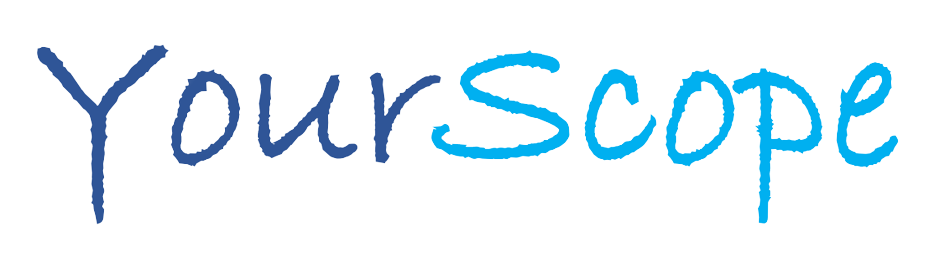
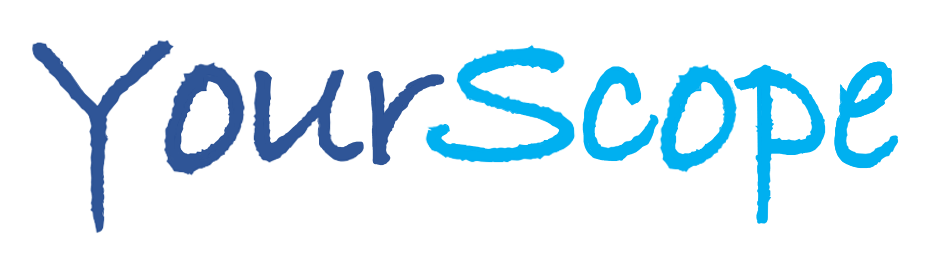
YS-187: enhanced UI of navbar

diff --git a/yourscope/src/app/shared/components/navbar/navbar.component.scss b/yourscope/src/app/shared/components/navbar/navbar.component.scss
@@ -1,7 +1,7 @@
 @import url('https://fonts.googleapis.com/css2?family=Inter:wght@100;200;300;400;500;600;700;800;900&family=Varela+Round&display=swap');
 
 .bg-navy {
-  background-color: rgb(61, 89, 149);
+  background: rgb(255, 255, 255);
 }
 
 .pad-12 {
@@ -14,6 +14,14 @@
 
 nav {
   font-family: 'Varela Round', sans-serif;
+}
+
+.logo-bg{
+  background-color: rgb(206, 229, 255);
+  border-radius: 20px;
+  padding: 0px 10px 0px 10px;
+  text-decoration: none;
+  margin-left: 20px;
 }
 
 .button-md {
@@ -43,4 +51,55 @@ nav {
   padding: 5px;
   text-align: center;
   cursor: pointer;
+}
+
+div.container
+{
+  font-family: Varela Round;
+  margin: 0 auto;
+	padding: 0.25em 3em;
+	text-align: center;
+}
+
+div.container a
+{
+    color: #243E6B;
+    font: 20px Varela Round;
+    margin: 0px 10px;
+    padding: 10px 10px;
+    
+    position: relative;
+    z-index: 0;
+    cursor: pointer;
+}
+
+/* Top and Bottom borders come in */
+div.topBotomBordersIn a:before, div.topBotomBordersIn a:after
+{
+    position: absolute;
+    left: 0px;
+    width: 100%;
+    height: 2px;
+    background: #243E6B;
+    content: "";
+    opacity: 0;
+    transition: all 0.3s;
+}
+
+div.topBotomBordersIn a:before
+{
+    top: 0px;
+    transform: translateY(-10px);
+}
+
+div.topBotomBordersIn a:after
+{
+    bottom: 0px;
+    transform: translateY(10px);
+}
+
+div.topBotomBordersIn a:hover:before, div.topBotomBordersIn a:hover:after
+{
+    opacity: 1;
+    transform: translateY(0px);
 }

diff --git a/yourscope/src/app/shared/components/navbar/navbar.component.html b/yourscope/src/app/shared/components/navbar/navbar.component.html
@@ -1,14 +1,16 @@
-<nav class="bg-navy pad-12 navbar navbar-expand-lg">
+<nav class="bg-navy pad-12 navbar navbar-expand-lg ">
   <a class="navbar-brand" href="{{home}}">
-    <img src="../../../assets/yourscope.png" width="100" height="30" alt="">
+    <img  src="../../../assets/yourscope.png" width="140" height="40" alt="">
   </a>
   <button class="navbar-toggler" type="button" data-toggle="collapse" aria-expanded="false" aria-label="Toggle navigation" (click)="collapsed = !collapsed">
     <span class="navbar-toggler-icon"></span>
   </button>
-  <div class="collapse navbar-collapse" [ngbCollapse]="collapsed">
+  <div class="collapse navbar-collapse " [ngbCollapse]="collapsed">
     <ul class="navbar-nav mr-auto">
-      <li class="nav-item button-md" *ngFor="let link of links">
-        <a class="nav-link white" href="{{link.href}}">{{link.label}}</a>
+      <li class="nav-item " *ngFor="let link of links">
+        <div class="container topBotomBordersIn">
+          <a class="nav-link white" href="{{link.href}}">{{link.label}}</a>
+        </div>
       </li>
     </ul>
     <div class="logout-button-bg">
